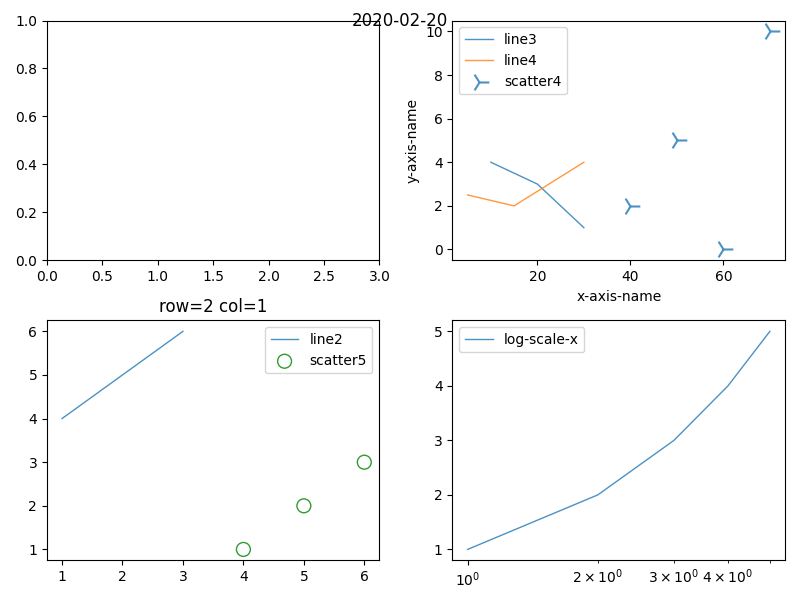
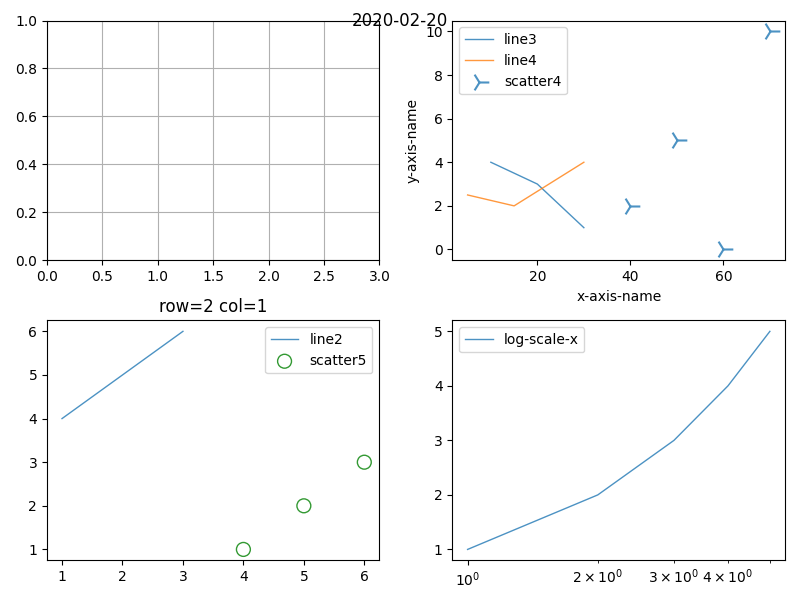
major tick config

diff --git a/vitro.cc b/vitro.cc
@@ -217,6 +217,11 @@ Matplot::Matplot(const Figure& fig) {
     throw std::runtime_error("Error importing module numpy");
   }
 
+  PyObject* py_matplotlib_ticker = PyImport_ImportModule("matplotlib.ticker");
+  if (!py_matplotlib_ticker) {
+    throw std::runtime_error("Error importing module numpy");
+  }
+
   // default dpi = 100 = pixels per inch
   // width (px) => width/dpi (inches)
   pyfig = PyObject_CallMethod(pyplot, "figure", "O(dd)", new_none(), fig.width / 100.0, fig.height / 100.0);
@@ -314,6 +319,26 @@ Matplot::Matplot(const Figure& fig) {
     if (ax.yscale.size() > 0) {
       PyObject_CallMethod(pyax, "set_yscale", "s", ax.yscale.c_str());
       check_pyerr();
+    }
+    if (ax.grid) {
+      PyObject_CallMethod(pyax, "grid", "Oss", Py_True, ax.grid_tick.c_str(), ax.grid_axis.c_str());
+      check_pyerr();
+    }
+
+    if (ax.xtick_major != "auto") {
+      PyObject* locator;
+      if (ax.xtick_major == "max_n") {
+        locator = PyObject_CallMethod(py_matplotlib_ticker, "MaxNLocator", "i", ax.xtick_major_n);
+      } else if (ax.xtick_major == "multiple") {
+        locator = PyObject_CallMethod(py_matplotlib_ticker, "MultipleLocator", "d", ax.xtick_major_multiple);
+      } else {
+        throw std::runtime_error("cannot create matplotlib xtick locator");
+      }
+      check_pyerr();
+      auto* xaxis = PyObject_GetAttrString(pyax, "xaxis");
+      PyObject_CallMethod(xaxis, "set_major_locator", "O", locator);
+      Py_DecRef(xaxis);
+      Py_DecRef(locator);
     }
 
     for (const auto& line : ax.lines) {

diff --git a/vitro.h b/vitro.h
@@ -143,6 +143,15 @@ public:
   std::optional<int64_t> xlim_right;
   std::string xscale{}; // "log", "logit", ..
   std::string yscale{};
+
+  bool grid = false;
+  std::string grid_tick = "both"; // "major", "minor"
+  std::string grid_axis = "both"; // "x", "y"
+
+  std::string xtick_major = "auto"; // "auto" / "max_n"+xtick_n / "multiple"+xtick_multiple
+  int xtick_major_n = 10;
+  double xtick_major_multiple = 1.0;
+
   bool is_x_nanotimestamps = false; // if true, x values are interprested as unix epochs in nanoseconds
   std::vector<Line> lines;
   std::vector<Scatter> scatters;

diff --git a/example.cc b/example.cc
@@ -35,6 +35,11 @@ void plot2() {
   {
     auto& ax = fig.axes(1, 1);
     ax.xlim_right = 3;
+    ax.grid = true;
+    // ax.xtick_major = "max_n";
+    // ax.xtick_major_n = 3;
+    ax.xtick_major = "multiple";
+    ax.xtick_major_multiple = 0.5;
   }
 
   {
